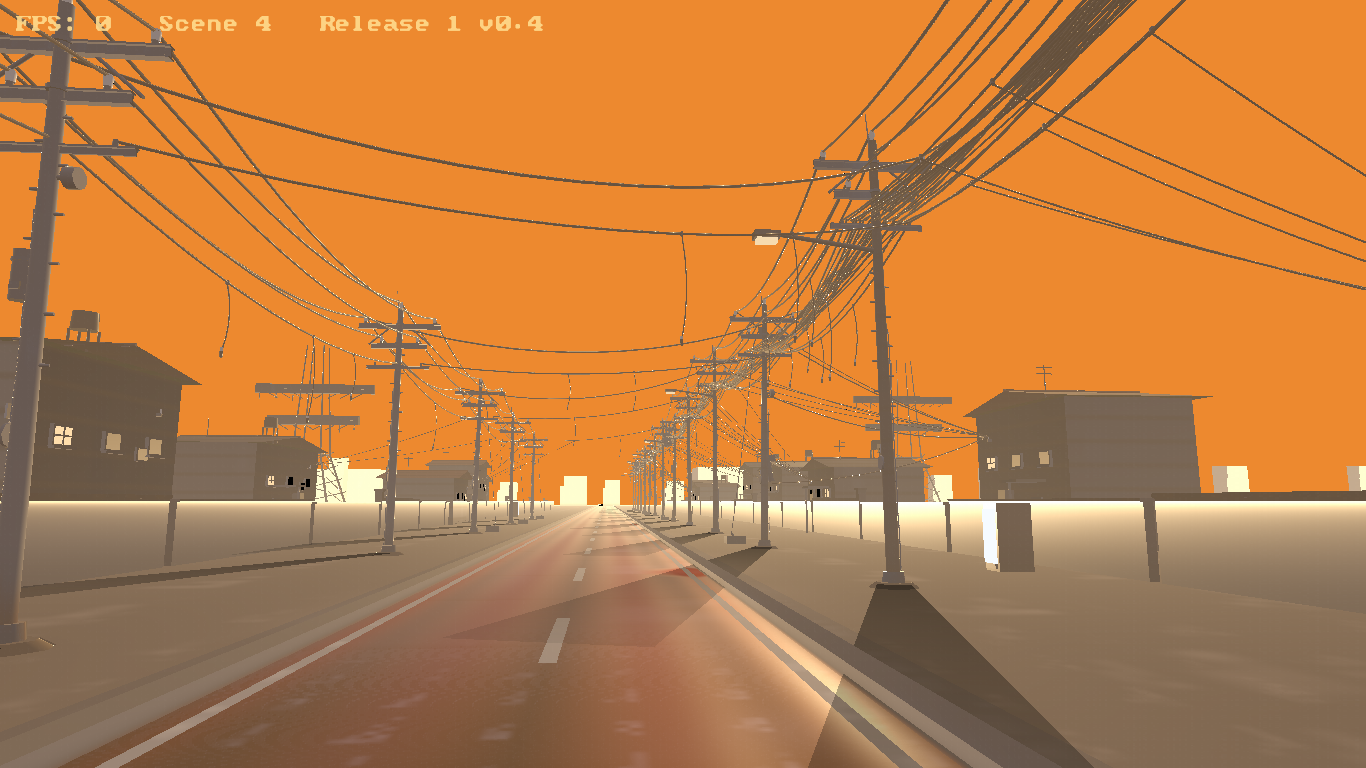
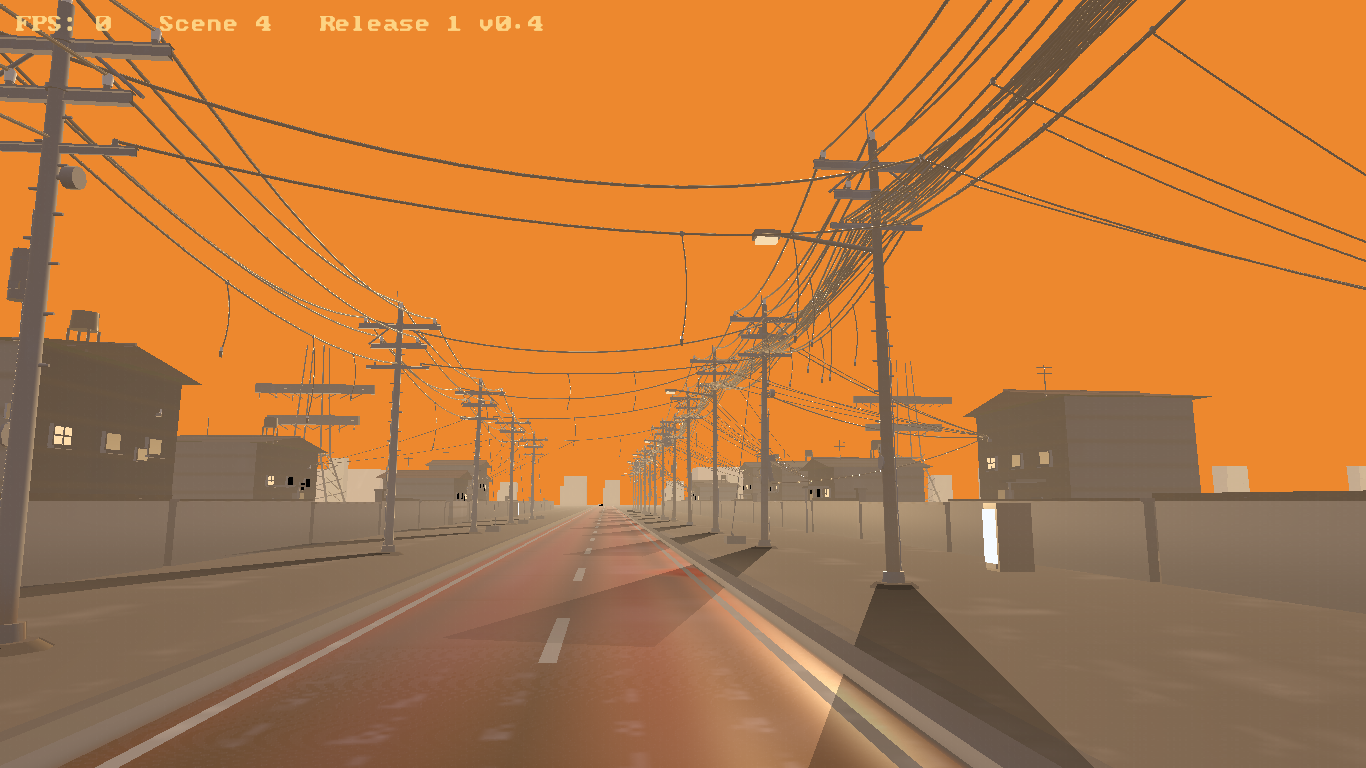
Check both ports against the shared shader fixes, and say what the Vita still cannot do
Both ports pack the same shaders/ tree and compile the same two scene units, so
the sea's precision fix and the object shader's specular fix reach Android and
PS Vita together. This repacks the APK and the VPK from those bytes, re-renders
both committed screenshots, and records what was run on each port: the shader
and link checks pass for both, and booting the VPK under Vita3K shows SceShaccCg
accepting all six programs of both scenes (warnings only) before each scene runs
to its scheduled shot. The README now states the blob-count criterion it quotes,
and lists the gaps the scan found that are not fixed here — scene 2's environment
cube map is refused by vitaGL's cube-only format table, and hud_vert's `clip`
shadows a Cg builtin.

🤖 Generated with Codebuff

Changed region(s): [[0.0, 0.5938, 1.0, 0.75], [0.5227, 0.75, 0.5534, 0.8125], [0.7687, 0.5, 0.7994, 0.5312]]

diff --git a/README.md b/README.md
@@ -363,8 +363,11 @@ harness in `android/host/` (`make -f android/Makefile host-render`) runs the
 **same** scene translation units and the **same** `shaders/` tree through Mesa's
 llvmpipe on the host — ES 3.2, the API level the APK targets — and lets the
 scenes write their own frames out. Both scenes come up and both produce full
-frames: scene 2 `lit=1049088/1049088` and scene 4 `lit=1048910/1049088` at
-1366x768.
+frames: scene 2 `lit=1049088/1049088` and scene 4 `lit=1048911/1049088` at
+1366x768. Scene 4's exact numbers drift by a pixel or two between runs, because
+its camera advances on real elapsed time (`gSimTime`) rather than on the pinned
+shot time scene 2 uses, so the frame it captures is a few hundredths of a second
+apart each run; scene 2's frames are reproducible byte for byte.
 
 **A `lit` count is exactly what hid the sea.** Scene 2's sea program did not link
 at all in every revision before this one, so the sea contributed no pixels while
@@ -415,3 +418,112 @@ dome and its HUD, reported no error on screen, and showed no sea at all — no b
 rectangle, just sky continuing down. That is this link failure as a user sees it.
 The fix itself is host-verified (link check plus the 45.9% frame change above), so
 confirming it on that device is the remaining step.
+
+### Two more rendering bugs, in the shared shader tree
+
+Two further defects showed up in the committed frames. Both are in `shaders/`,
+which both ports pack, so both are fixed for both ports.
+
+**Scene 2: a near-black band between the sea and the sky.** `sea_frag.glsl`
+received the world position as a `mediump` varying, and the sea patch is
+`kSeaSize` (4096) across, so that varying carries coordinates of ±2048 — past what
+`mediump` holds. Interpolated at `mediump` the far half of the patch came apart:
+probe renders that print `dist = length(vWorld.xz - uEyePos.xz)` show the value
+pinned at ≥16384 (`mediump`'s own maximum) for fragments whose `vWorld` was an
+ordinary (1847, 1044), i.e. a real distance of 2081. That drove `horizonMix` and
+`haze` to 1.0 while the un-hazed `body` value was discarded with them, painting a
+24-row band of flat (17,20,32) across the full width, straddling the horizon: the
+"black gap where the sea should stretch". The fix is one word in each stage —
+`varying highp vec3 vWorld;` — and nothing else changes; the sea's ALU stays
+`mediump`. Declared on both sides the two stages agree explicitly, which is what
+`make -f android/Makefile host-shaders` checks. On the frame, 95,163 pixels change,
+all of them on or below the sea's top row (row 415 of 768); the sky above is
+untouched, and the band's own pixel at row 420 goes from (17,20,32) to
+(164,133,103).
+
+**Scene 4: background objects burning out to flat white.** `pole/object_frag.glsl`
+divided the GGX specular by `4 * NoV` on top of a `G` that is already Schlick's
+Smith *visibility* term, `V = 0.25 / ((NoL(1-k)+k)(NoV(1-k)+k))`, which already
+contains the microfacet BRDF's `1/(4·NoL·NoV)`. The duplicate factor was invisible
+near normal incidence but grew without bound as a surface turned edge-on, and
+`NoV` is only clamped to `1e-3`. Everything sitting on the horizon is seen
+edge-on, which is why the background houses and the ridge behind them burned out:
+a probe render that prints each pixel's material, `rough` and `sp` shows the
+blown-out facets at `rough = 1.0` — where `D` is a flat 0.318 and so does nothing
+to suppress the term — and `sp ≥ 4`, and `sunTint * sp` alone is (4.0, 2.6, 1.4),
+which is pure white once the scene's tonemap runs. Dropping the duplicate factor
+(`spR = D * G * Fs * NoL`) leaves the highlight otherwise intact and bounds it at
+grazing angles. Measured on the frame, pixels with every channel above 195 fall
+from 12,106 to 969, and counting 8-connected runs of at least 16 such pixels the
+count of blobs falls from 30 — the four largest covering 3126, 2323, 917 and 715
+px — to exactly one, which is the vending machine's lit front panel (0.88, 0.93,
+1.00 through the `kMatGlow` branch), a light source by design. The named object goes from (254,254,208) to (207,182,149)
+and the peak luminance of its region from 253 to 186, while the whole frame gets
+slightly *darker* (mean 127.9 → 123.8), so the correction removes brightness rather
+than adding it; 20.2% of the pixels change. Objects with a genuinely smooth
+material still glint — the same term, now scaled by the geometry instead of by
+`1/NoV`.
+
+Both artifacts are repacked from the fixed tree (`make -f android/Makefile` for the
+APK, `make` for the VPK) and the two committed screenshots regenerated, so the
+shipped APK, the VPK and the images all carry the fix.
+
+**Both fixes re-checked from the shipped bytes, on both ports.** Android side:
+`make -f android/Makefile host-shaders` links all six programs on the host's ES 3.2
+driver, and fresh `host-render` frames reproduce the numbers above — scene 2 has no
+row in 380-469 with a row mean below 35 (the pre-fix frame has 14, of which 24 rows
+carry the flat (17,20,32) value at the mid column), and scene 4's over-195 pixels
+are 969 with a single blob of at least 16 px. Vita side: the repacked VPK was booted
+under Vita3K, and *every* program of both scenes went through SceShaccCg and was
+accepted. All six files of scene 2's three programs (sea, sky, HUD) were loaded in one run and
+all six of scene 4's (sky, object, HUD) in another. The app reported no `failed to
+compile` and no `failed to link` in either; the only diagnostics were warnings, and
+two of them name identifiers that exist in exactly one file — `reflDist` (only in
+`shaders/ps14/sea_frag.glsl`, the edited stage) and `toSun` (only in
+`shaders/pole/object_frag.glsl`) — which is what ties a warning to the shader it
+came from. Both scenes then ran their benchmark and fired their scheduled shot
+(`shot trigger: t=6.01 target=6.00` in scene 2, `shot trigger: sim=6.06
+target=6.00` in scene 4).
+
+**What is still not verified for these two fixes:** nothing has run on a real
+console. Scene 2's *pixels* cannot be captured under Vita3K at all (the shader-bank
+limit above drops its draws), so the sea's `highp` varying is confirmed to be
+*accepted* by SceShaccCg, not confirmed to remove the band on hardware. `highp` in a
+fragment shader stays optional in ES 1.00 (`GL_FRAGMENT_PRECISION_HIGH`); this
+shader already relied on it unguarded for the earlier `uTime` fix, and a device
+without it would reject the program rather than draw the band — the alternative is
+to stop shipping raw world coordinates to the fragment stage at all.
+
+### Cross-port scan: what matches, and what does not
+
+The two ports share the shader tree (`shaders/`, packed into the APK's assets and
+the VPK's `app0:`) and the two scene translation units (`src/scene2.cxx`,
+`src/scene4.cxx`); only the platform layer differs (`android/jni` + ES 3.0 stand-ins
+against `src/vita_main.cxx`/`src/vita_sdl.cxx` + vitaGL). So every shader change and
+every scene change lands on both, and `tools/check_shaders.sh` is one script run by
+both `make check` and `make -f android/Makefile check`. What the scan turned up that
+is *not* fixed here:
+
+* **Scene 2's environment cube map is a Vita-only gap.** `src/scene2.cxx` allocates
+  it with `glTexImage2D(..., GL_RGBA16F, ..., GL_RGBA, GL_FLOAT, nullptr)`, asks for
+  `GL_TEXTURE_WRAP_R` and calls `glGenerateMipmap(GL_TEXTURE_CUBE_MAP)`. All three
+  are core ES 3.0, and all three are refused by vitaGL: its cube path
+  (`source/textures.c`, `_glTexImage2D_CubeIMPL`) accepts only
+  `GL_UNSIGNED_BYTE`/`GL_UNSIGNED_SHORT_5_5_5_1`/`GL_UNSIGNED_SHORT_4_4_4_4` for
+  `format = GL_RGBA`, its `glTexParameteri` has no wrap-R case, and its
+  `glGenerateMipmap` rejects the cube target. The guest logged exactly those three
+  (`_glTexImage2D_CubeIMPL set GL_INVALID_ENUM (type: 0x1406)`,
+  `_glTexParameteri set GL_INVALID_ENUM (pname: 0x8072)`, `glGenerateMipmap set
+  GL_INVALID_ENUM (target: 0x8513)`) during the run, so the reflection probe the sea
+  samples is very likely unallocated on hardware. The scene never calls
+  `glCheckFramebufferStatus`, so nothing would report it, and scene 2's pixels
+  cannot be checked under Vita3K to see it — this one needs a console.
+* **`clip` shadows a Cg builtin** in `shaders/ps14/hud_vert.glsl`. SceShaccCg says
+  `'clip' shadows previous declaration` / `previous declaration was builtin` and
+  compiles the program anyway; it is informational, and renaming a variable in a
+  HUD shader is not worth a second round of both ports' checks.
+* **Android has no device-side run either**: the APK builds, packs the current
+  shader bytes, and passes `apksigner verify` for all three ABIs, and the scenes and
+  shaders are exercised through the host's ES 3 driver - but the activity/EGL glue
+  in `android/jni/` is only as good as the compiler and the emulator that does not
+  exist here.
